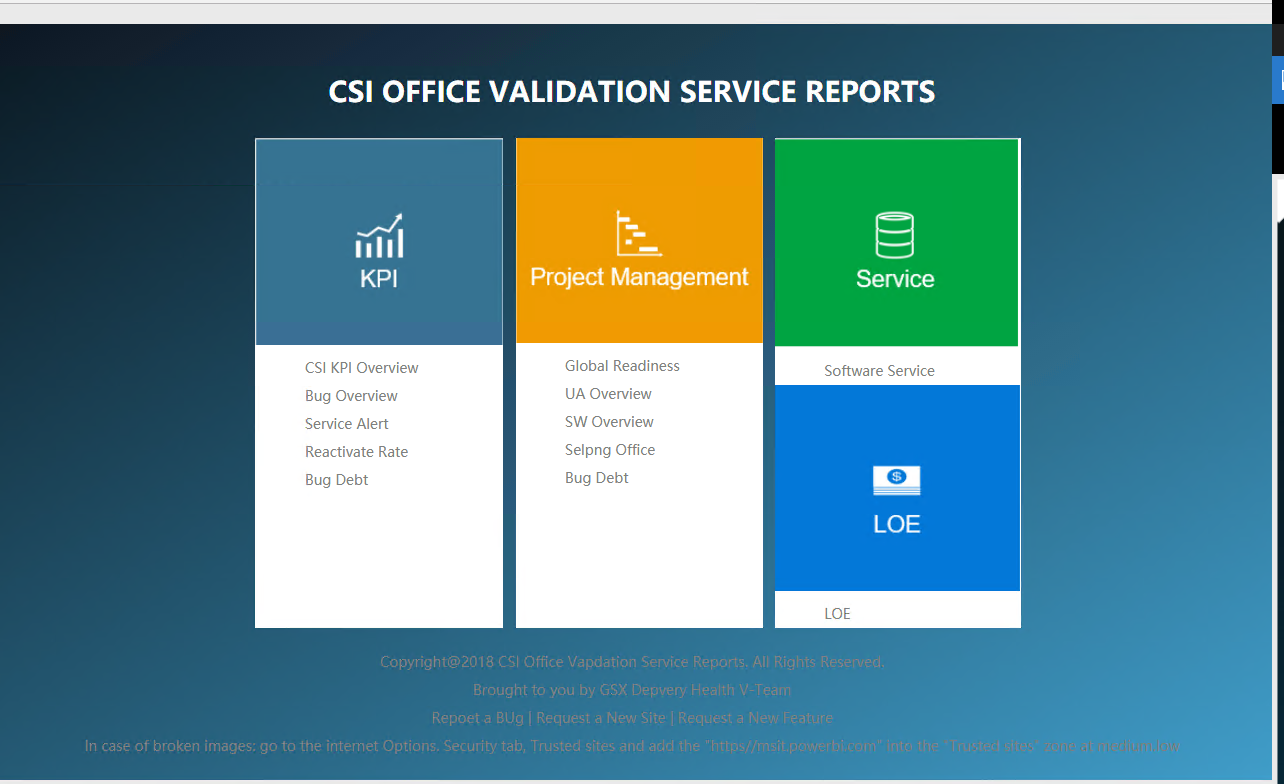
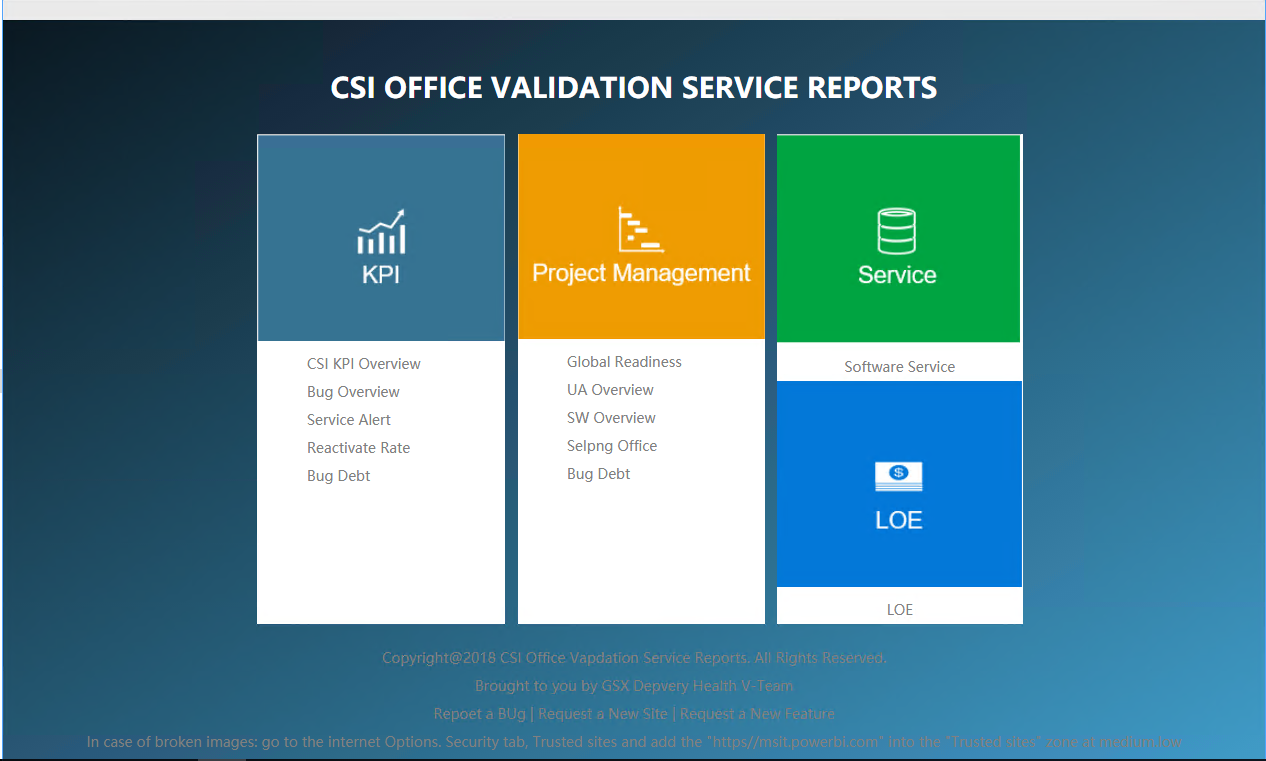
update

diff --git a/css/main.css b/css/main.css
@@ -73,7 +73,7 @@ header h1{
             justify-content: center;
 
         }
-        article p{
+        .article-body p{
             color:gray;
             padding-left: 20%;
         }
@@ -84,9 +84,23 @@ header h1{
             display: flex;
             flex-direction: column;
             align-items: center;
+         
         }
 
+        .columns-nested{
+            color: gray;
+            display: flex;
+            flex-direction: column;
+            align-items: center;
+        }
+
+        .columns-nested p{
+            text-align: center;
+          
+        }
+        
         
         .columns-nested p{
             flex: 1;
+           
         }

diff --git a/index.html b/index.html
@@ -73,14 +73,14 @@
                 <figure class="article-image">
                     <img src="img/third.PNG" alt="">
                 </figure>
-                <article class="article-body columns-nested">
+                <article class="columns-nested">
                     <p>
                         Software Service
                     </p>
                     <figure class="article-image">
                         <img src="img/fouth.PNG" alt="">
                     </figure>
-                    <p >
+                    <p>
                         LOE
                     </p>
                 </article>
